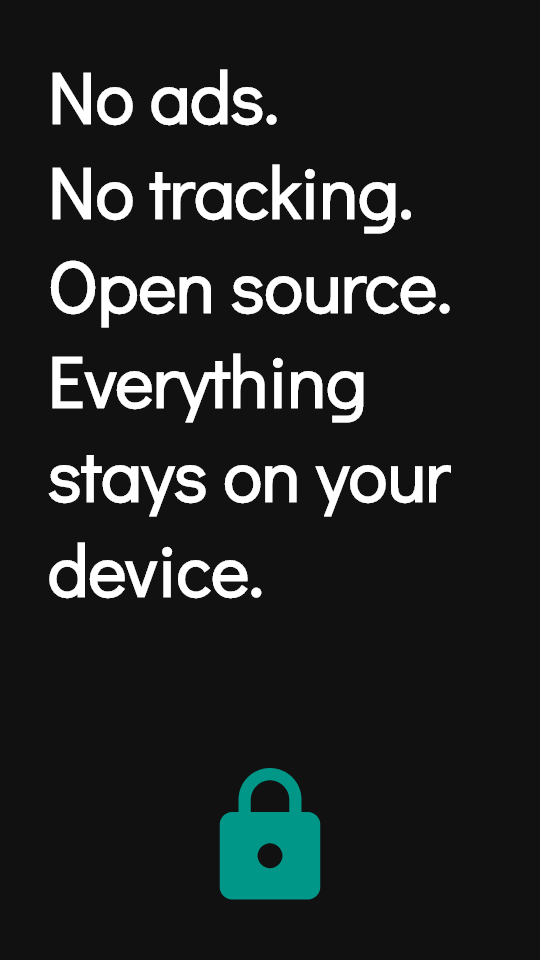
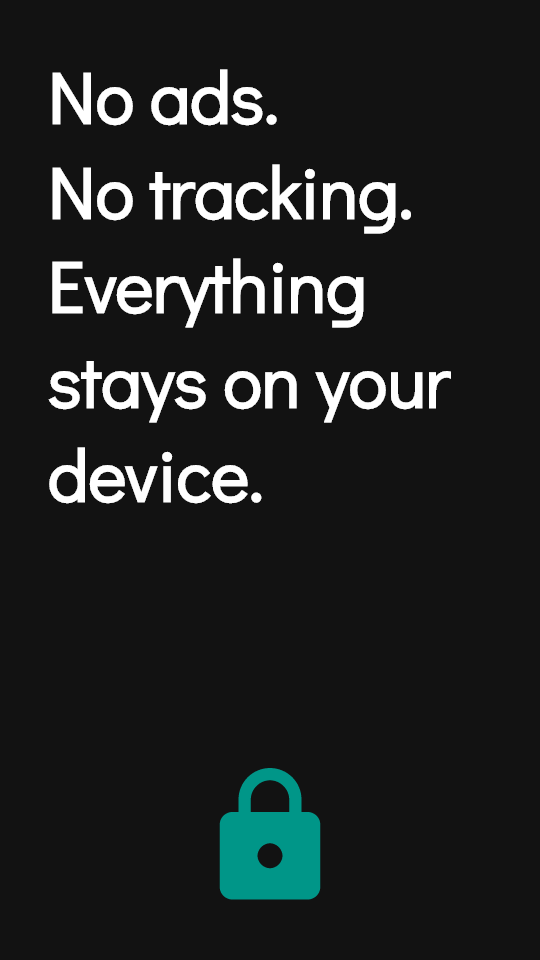
MiniList is not open source yet

Changed region(s): [[0.0889, 0.25, 0.8296, 0.4375], [0.0889, 0.4688, 0.563, 0.625], [0.5926, 0.4688, 0.8296, 0.5625]]

diff --git a/screenshots/showcases.dart b/screenshots/showcases.dart
@@ -211,7 +211,7 @@ class PrivacyShowcase extends Showcase {
       appTheme: AppThemeData.dark(),
       children: [
         Text(
-          'No ads.\nNo tracking.\nOpen source.\nEverything stays on your device.',
+          'No ads.\nNo tracking.\nEverything stays on your device.',
         ),
         Positioned(
           bottom: 0,
